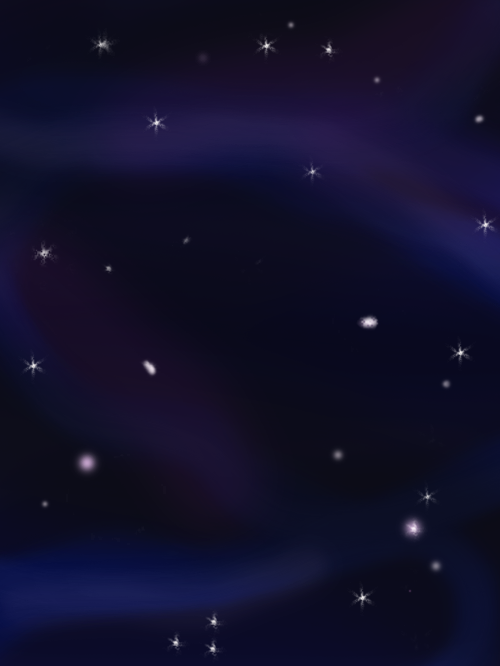
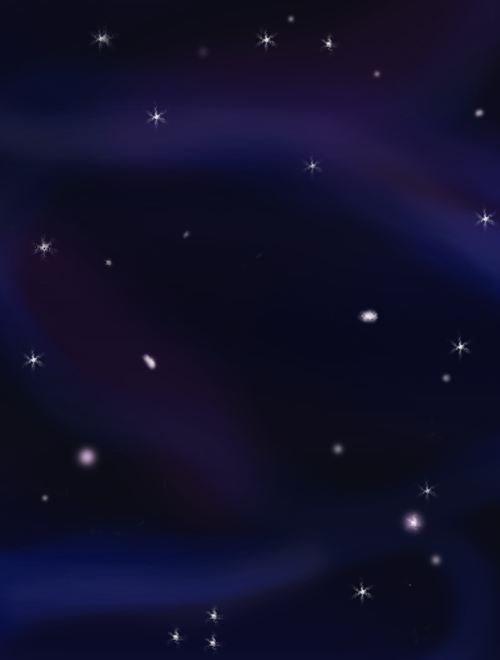
Updated background images - added a mobile background

diff --git a/index.html b/index.html
@@ -12,6 +12,8 @@
       <img src="./src/assets/media/beetlemorph.png" id="enemy1" alt="beetlemorph enemies" />
       <img src="./src/assets/media/player.png" id="player" alt="player ship" />
       <img src="./src/assets/media/player_jets.png" id="player_jets" alt="player jets" />
+      <img src="./src/assets/media/background.png" id="background" alt="background" />
+      <img src="./src/assets/media/backgroundSmall.png" id="backgroundSmall" alt="mobile background" />
       <audio src="./src/assets/media/destroyed1.mp3" id="destroyed1"></audio>
       <audio src="./src/assets/media/shoot1.mp3" id="shoot1"></audio>
       <audio src="./src/assets/media/destroyed2.mp3" id="destroyed2"></audio>
